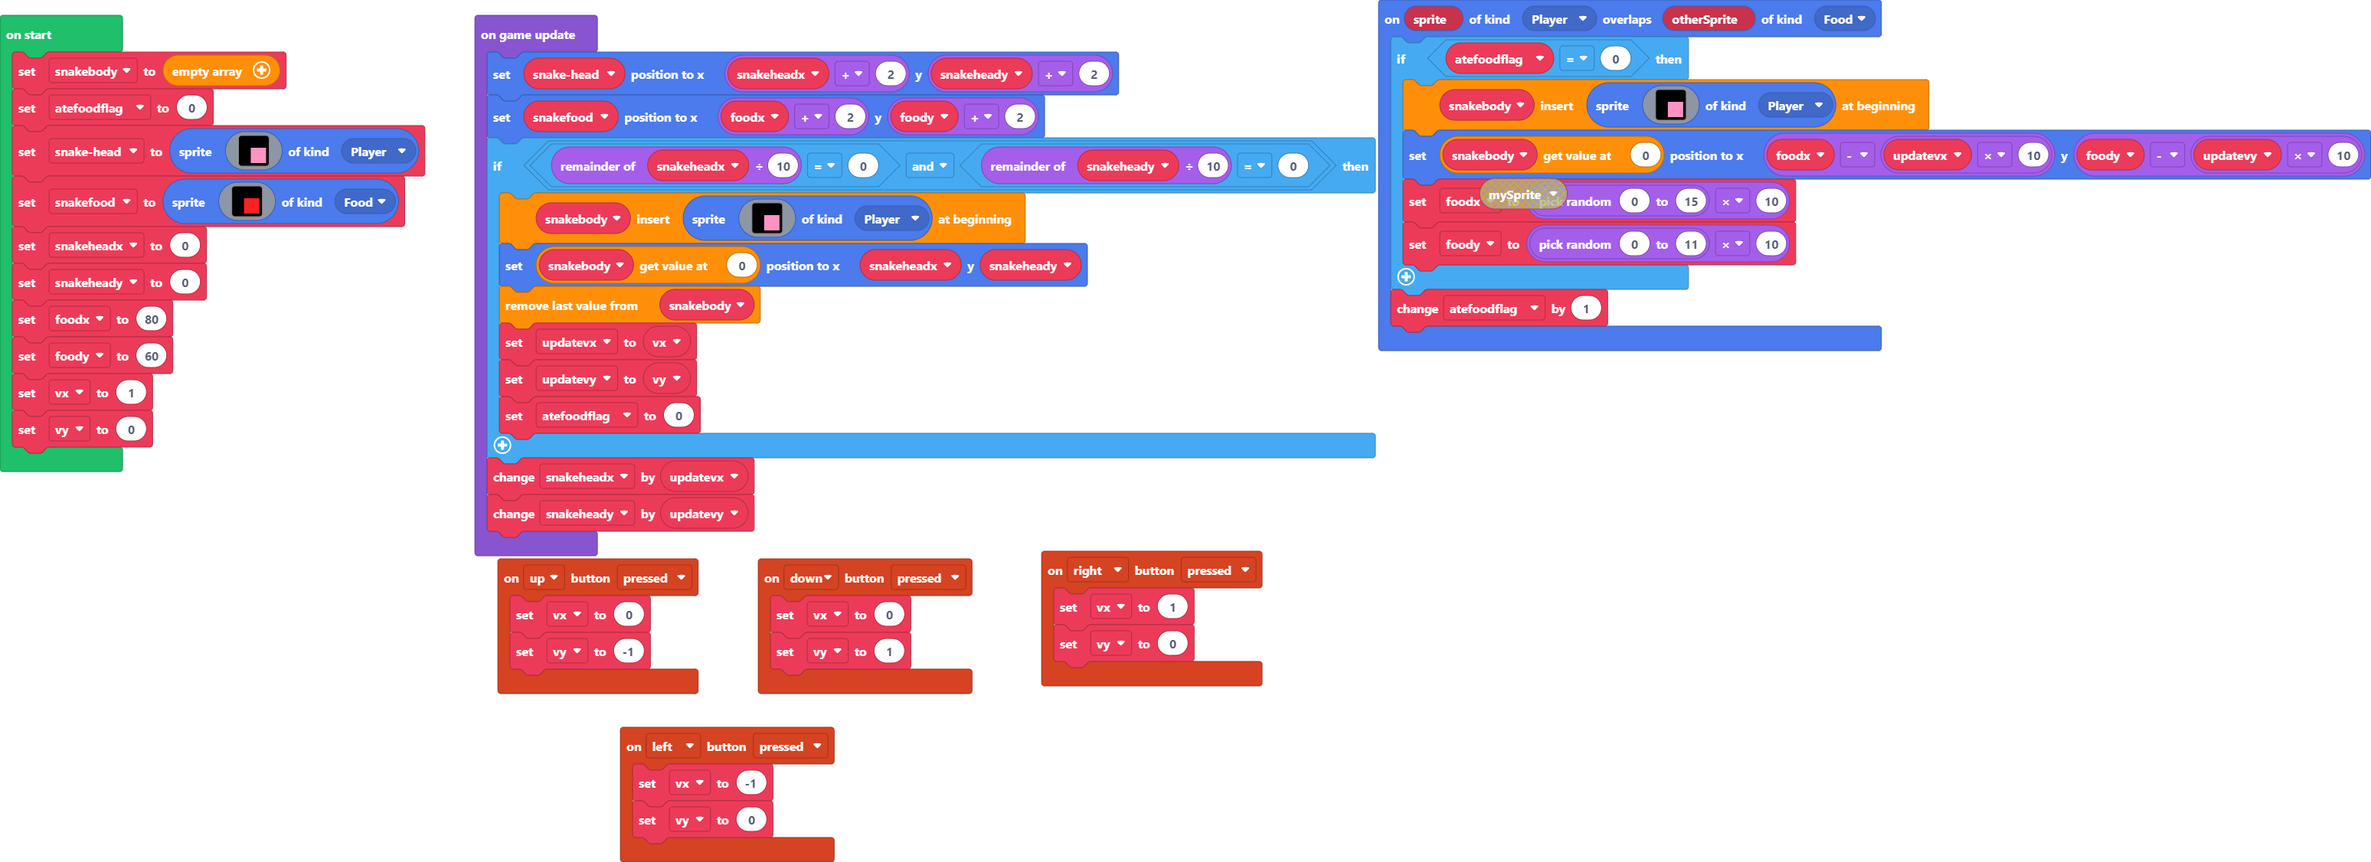
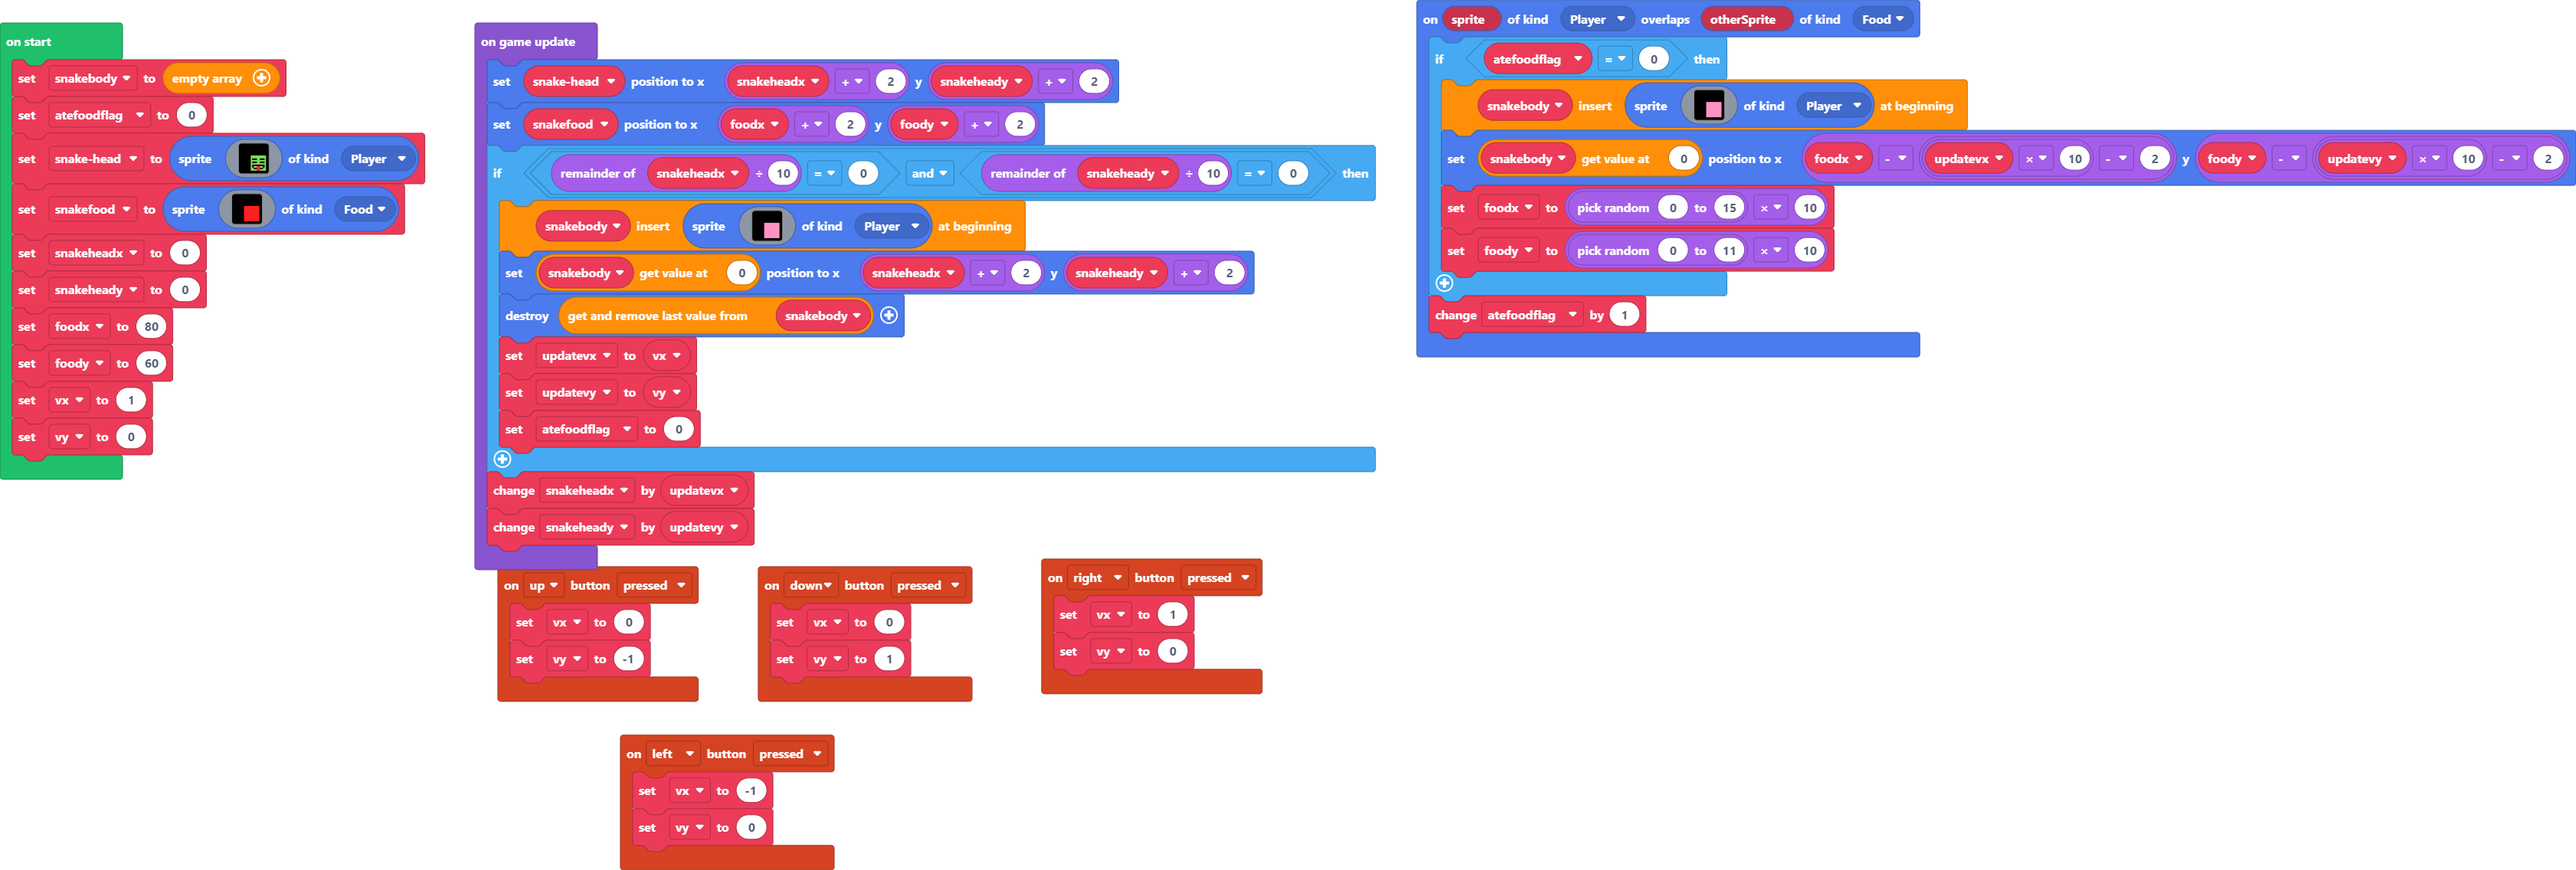
yeah not bad

Changed region(s): [[0.0, 0.0, 1.0, 0.8082], [0.2171, 0.8393, 0.3721, 1.0]]

diff --git a/main.ts b/main.ts
@@ -34,7 +34,7 @@ sprites.onOverlap(SpriteKind.Player, SpriteKind.Food, function (sprite, otherSpr
             . . . . . . 3 3 3 3 3 3 3 3 3 3 
             . . . . . . 3 3 3 3 3 3 3 3 3 3 
             `, SpriteKind.Player))
-        snakebody[0].setPosition(foodx - updatevx * 10, foody - updatevy * 10)
+        snakebody[0].setPosition(foodx - (updatevx * 10 - 2), foody - (updatevy * 10 - 2))
         foodx = randint(0, 15) * 10
         foody = randint(0, 11) * 10
     }
@@ -57,16 +57,16 @@ let snakehead = sprites.create(img`
     . . . . . . . . . . . . . . . . 
     . . . . . . . . . . . . . . . . 
     . . . . . . . . . . . . . . . . 
-    . . . . . . 3 3 3 3 3 3 3 3 3 3 
-    . . . . . . 3 3 3 3 3 3 3 3 3 3 
-    . . . . . . 3 3 3 3 3 3 3 3 3 3 
-    . . . . . . 3 3 3 3 3 3 3 3 3 3 
-    . . . . . . 3 3 3 3 3 3 3 3 3 3 
-    . . . . . . 3 3 3 3 3 3 3 3 3 3 
-    . . . . . . 3 3 3 3 3 3 3 3 3 3 
-    . . . . . . 3 3 3 3 3 3 3 3 3 3 
-    . . . . . . 3 3 3 3 3 3 3 3 3 3 
-    . . . . . . 3 3 3 3 3 3 3 3 3 3 
+    . . . . . . 7 7 7 7 7 7 7 7 7 7 
+    . . . . . . 7 7 7 7 7 7 7 7 7 7 
+    . . . . . . 7 f f f 7 7 f f f 7 
+    . . . . . . 7 7 7 7 7 7 7 7 7 7 
+    . . . . . . 7 f f f 7 7 f f f 7 
+    . . . . . . 7 7 7 7 7 7 7 7 7 7 
+    . . . . . . 7 f f f f f f f f 7 
+    . . . . . . 7 f 3 3 2 2 3 3 f 7 
+    . . . . . . 7 7 f f 2 2 f f 7 7 
+    . . . . . . 7 7 7 7 2 2 7 7 7 7 
     `, SpriteKind.Player)
 let snakefood = sprites.create(img`
     . . . . . . . . . . . . . . . . 
@@ -114,8 +114,8 @@ game.onUpdate(function () {
             . . . . . . 3 3 3 3 3 3 3 3 3 3 
             . . . . . . 3 3 3 3 3 3 3 3 3 3 
             `, SpriteKind.Player))
-        snakebody[0].setPosition(snakeheadx, snakeheady)
-        snakebody.pop()
+        snakebody[0].setPosition(snakeheadx + 2, snakeheady + 2)
+        snakebody.pop().destroy()
         updatevx = vx
         updatevy = vy
         atefoodflag = 0
